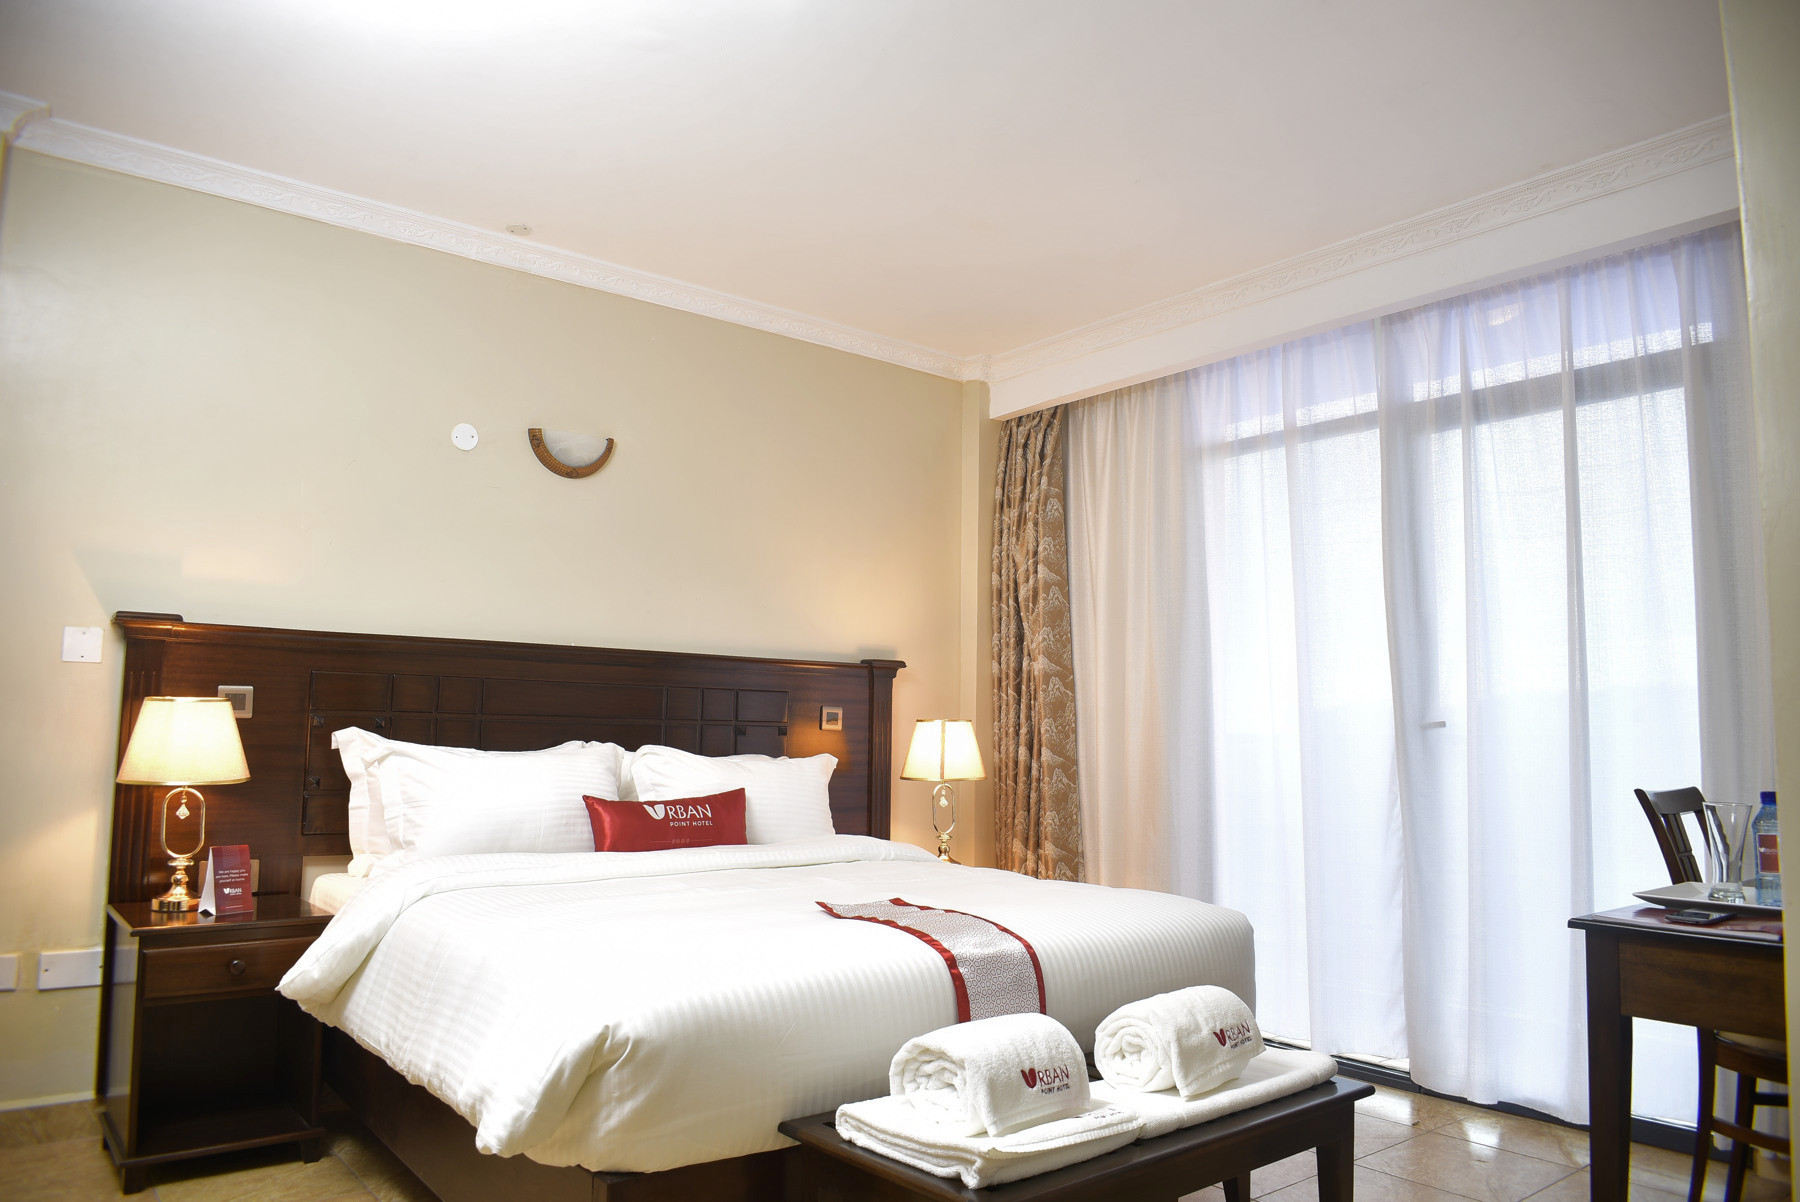
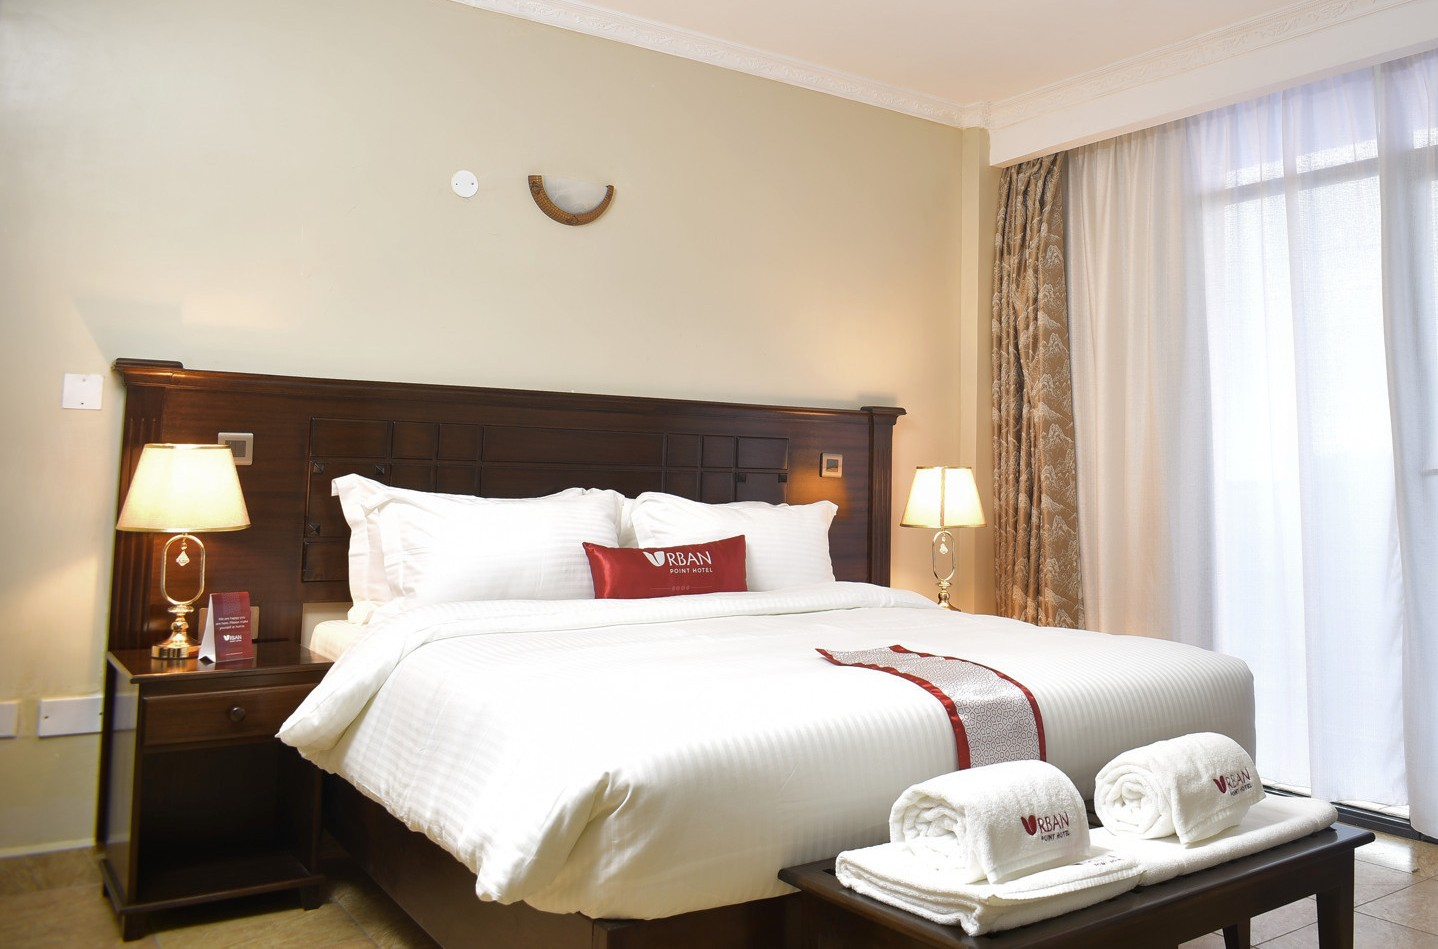
Updated bed1.jpg and HotelListings.jsx

diff --git a/src/pages/Home/Sections/HotelListings/HotelListings.jsx b/src/pages/Home/Sections/HotelListings/HotelListings.jsx
@@ -22,10 +22,10 @@ import bushraTwin1 from '../../../../assets/images/bushra/Twin1.png';
 import bushraView from '../../../../assets/images/bushra/view.jpg';
 // Import Urban hotel images for slideshow
 import urbanImage1 from '../../../../assets/images/urban/11.jpg';
-import urbanImage2 from '../../../../assets/images/urban/12.jpg';
+import urbanImage2 from '../../../../assets/images/urban/12.jpg'; // This is 12.jpg
 import urbanImage3 from '../../../../assets/images/urban/33.png';
 import urbanBed1 from '../../../../assets/images/urban/bed1.jpg';
-import urbanBed2 from '../../../../assets/images/urban/bed2.jpg';
+import urbanBed2 from '../../../../assets/images/urban/bed2.jpg'; // This is bed2.jpg
 import urbanBed3 from '../../../../assets/images/urban/bed3.jpg';
 import urbanDouble from '../../../../assets/images/urban/double.jpg';
 import urbanFood from '../../../../assets/images/urban/food.png';
@@ -427,7 +427,7 @@ const HotelListings = () => {
     return () => clearInterval(interval);
   }, []);
 
-  // Get filtered hotels with placeholders for countries without hotels
+  // Get filtered hotels with placeholders for countries without real hotels
   const getFilteredHotels = () => {
     let filtered = hotels.filter(hotel => {
       if (!selectedCountry) return true;
@@ -451,7 +451,8 @@ const HotelListings = () => {
     if (hotel.name === "Yare Towers Hotel") {
       return [yareRoom, yarePool, yareL, yareRoom2, yareConf, yareSeats];
     } else if (hotel.name === "Urban Point Hotel") {
-      return [urbanBed1, urbanBed2, urbanView1, urbanImage1, urbanDouble, urbanBed3, urbanSofa, urbanFood, urbanView];
+      // Changed to display urbanBed2 and urbanImage2 (12.jpg) first for desktop
+      return [urbanBed2, urbanImage2, urbanBed1, urbanView1, urbanImage1, urbanDouble, urbanBed3, urbanSofa, urbanFood, urbanView];
     } else if (hotel.name === "Bushra Hotel") {
       return [bushraSingle1, bushraDeluxe1, bushraView, bushraImage1, bushraReception, bushraTwin1, bushraDouble, bushraCafe, bushraImage3];
     }
